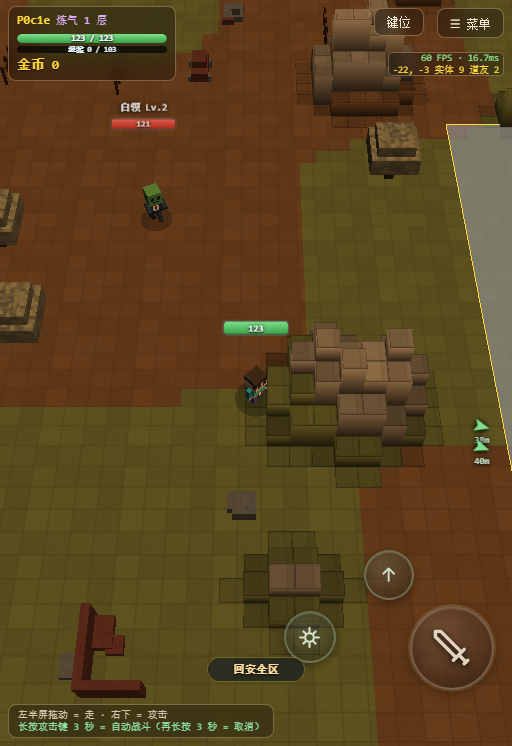
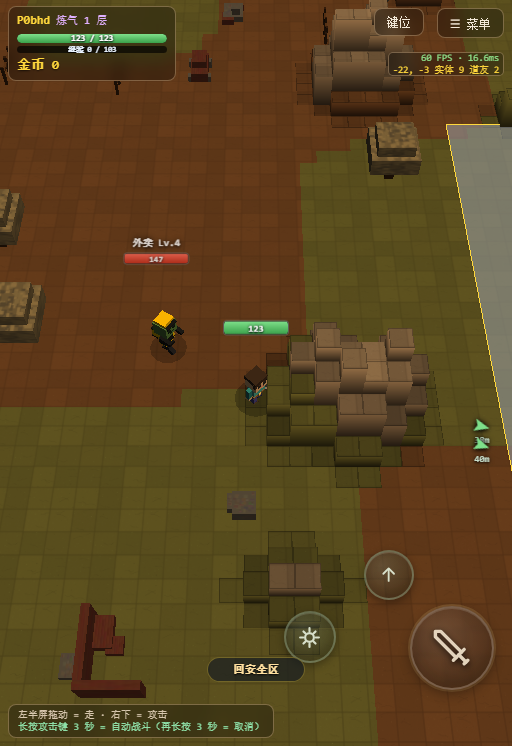
the remote critical hop survives the final position pass
Remote avatars have their vertical position recomputed just before the frame is drawn, which
is what fixed them sinking into hills. The critical hop was added earlier, during the
animation, so that pass overwrote it - the jump was only ever visible to the player doing it.

The hop is now part of that final calculation instead.

diff --git a/web/core/game.js b/web/core/game.js
@@ -6257,7 +6257,17 @@ function frame(ts) {
                  : (_fo.jyS + (_tj - _fo.jyS) * Math.min(1, dt * 14));
       if (!isFinite(_fo.jyS)) { _fo.jyS = _tj; }
       var _gy = terYAt(_mg.position.x, _mg.position.z);
-      _mg.position.y = _gy + Math.max(0, _fo.jyS);
+      /* ★★★ round401 修的真 bug（用户："暴击跳起来打没有"）★★★
+         ★ 根因：暴击跳打是在【动画那段】把 y 加上去的 ✗
+           而这个【渲染前统一覆盖】每帧重设 y ✗ 把加上去的部分抹掉了 ✓
+           → 本地看得见（本地没有这个覆盖）✗ 别人看不见 ✓
+         ★ 修：把暴击的抛物线也算进这个最终 y 里 ✓ */
+      var _hop = 0;
+      if (_fo.critUntil) {
+        var _hp2 = 1 - (_fo.critUntil - performance.now()) / 400;
+        if (_hp2 > 0 && _hp2 < 1) { _hop = Math.sin(_hp2 * Math.PI) * 3.4; }
+      }
+      _mg.position.y = _gy + Math.max(0, _fo.jyS) + _hop;
     }
   }
 
